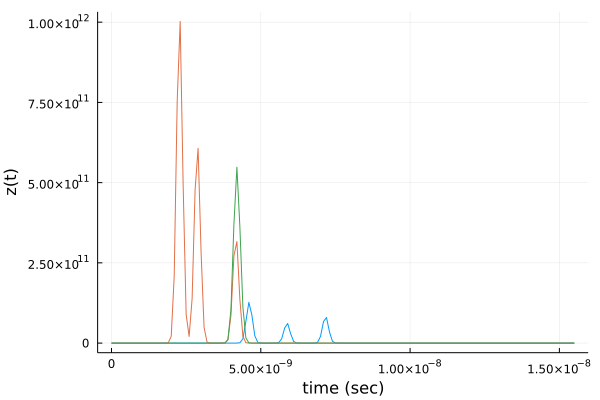
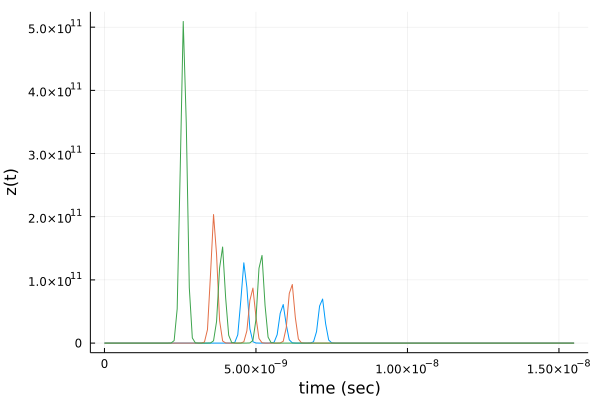
update D example

diff --git a/docs/src/omniDirectionalLTI/omnidirLTIsource.md b/docs/src/omniDirectionalLTI/omnidirLTIsource.md
@@ -252,11 +252,11 @@ using ISA, LTVsystems
 using Plots
 𝐩ₛ =  [0.0, 0.3]
 𝐩ᵣ₁ =  [-0.3, 0.0]
-𝐩ᵣ₂ =  [0.6, 0.0]
-𝐩ᵣ₃ =  [1.2, 0.0]
+𝐩ᵣ₂ =  [0.0, 0.0]
+𝐩ᵣ₃ =  [0.3, 0.0]
 p(t) = δ(t-1.0e-15,1.0e-10)
 q = LTIsourcesO(𝐩ₛ, p)
-α₁ = 0.8; 𝛏₁ = [0.9,0.0]
+α₁ = 0.7; 𝛏₁ = [0.9,0.0]
 R₁ = LTIsourcesO(𝛏₁, t->α₁*q(𝛏₁,t))
 α₂ = 0.5; 𝛏₂ = [0.5,0.0]
 R₂ = LTIsourcesO(𝛏₂, t->α₂*q(𝛏₂,t))
@@ -288,11 +288,11 @@ using ISA, LTVsystems
 using Plots
 𝐩ₛ =  [0.0, 0.3]
 𝐩ᵣ₁ =  [-0.3, 0.0]
-𝐩ᵣ₂ =  [0.6, 0.0]
-𝐩ᵣ₃ =  [1.2, 0.0]
+𝐩ᵣ₂ =  [0.0, 0.0]
+𝐩ᵣ₃ =  [0.3, 0.0]
 p(t) = δ(t-1.0e-15,1.0e-10)
 q = LTIsourcesO(𝐩ₛ, p)
-α₁ = 0.8; 𝛏₁ = [0.9,0.0]
+α₁ = 0.7; 𝛏₁ = [0.9,0.0]
 R₁ = LTIsourcesO(𝛏₁, t->α₁*q(𝛏₁,t))
 α₂ = 0.5; 𝛏₂ = [0.5,0.0]
 R₂ = LTIsourcesO(𝛏₂, t->α₂*q(𝛏₂,t))
